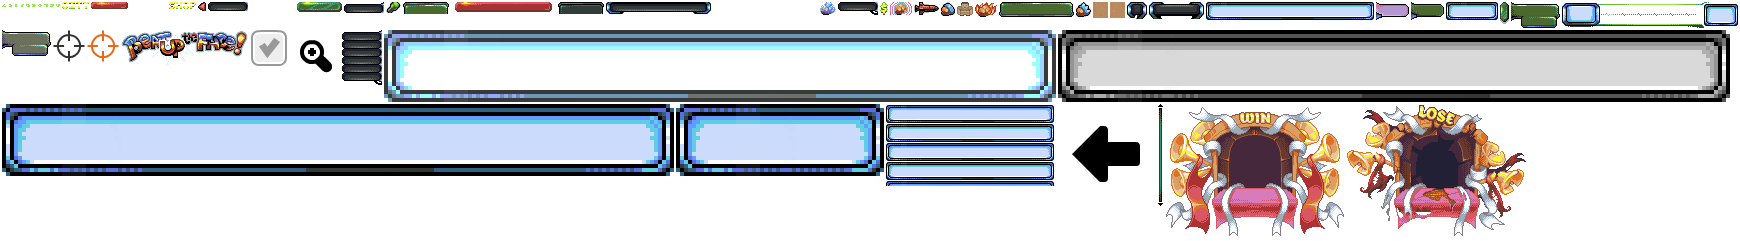
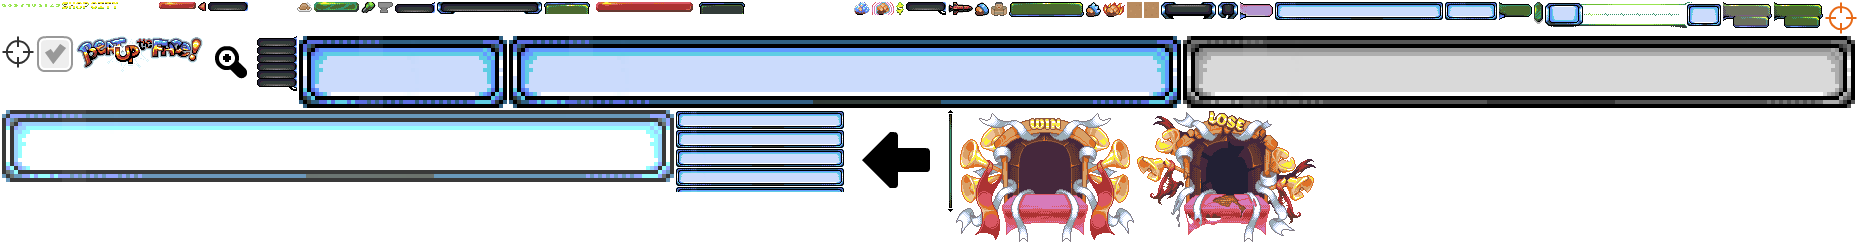
add anvil (and unused cooking.png) for new harvestable for workshop

diff --git a/Classes/Harvestable.cpp b/Classes/Harvestable.cpp
@@ -12,7 +12,7 @@ USING_NS_CC;
 
 void Harvestable::init_sprite()
 {
-    this->sprite = cocos2d::Sprite::createWithSpriteFrameName("weapon_ice.png");
+    this->sprite = cocos2d::Sprite::createWithSpriteFrameName(this->get_sprite_path());
     this->sprite->setScale(4);
     this->sprite->getTexture()->setAliasTexParameters();
 
@@ -23,7 +23,12 @@ void Harvestable::init_sprite()
     this->sprite->setPosition(get_relative(this->getContentSize()));
 
     this->clip->addChild(this->sprite);
-}
+};
+
+std::string Harvestable::get_sprite_path()
+{
+    return "weapon_ice.png";
+};
 
 bool Harvestable::init()
 {
@@ -146,7 +151,6 @@ void MiningHarvestable::init_sprite()
 
     };
 
-
     auto sprite_size = Size(15, 16);
     sprite_size.width *= scale * 2;
     sprite_size.height *= scale * 2;
@@ -156,8 +160,6 @@ void MiningHarvestable::init_sprite()
     auto top_right_sprite = create_sprite("dirt_2.png", Vec2::ANCHOR_TOP_RIGHT);
     auto bot_left_sprite = create_sprite("dirt_2.png", Vec2::ANCHOR_BOTTOM_LEFT);
     auto bot_right_sprite = create_sprite("dirt_1.png", Vec2::ANCHOR_BOTTOM_RIGHT);
-
-
 
     auto rt = RenderTexture::create(this->getContentSize().width, this->getContentSize().height);
     rt->retain();
@@ -217,3 +219,8 @@ void MiningHarvestable::animate_harvest()
         this->clip->runAction(Sequence::createWithTwoActions(rotate_by, rotate_to));
     };
 }
+
+std::string CraftingHarvestable::get_sprite_path()
+{
+    return "anvil.png";
+};

diff --git a/Classes/Harvestable.h b/Classes/Harvestable.h
@@ -22,6 +22,7 @@ class Harvestable : public cocos2d::ui::Widget
         bool init() override;
         virtual void animate_harvest();
         virtual void init_sprite();
+        virtual std::string get_sprite_path();
 
         void onTouchEnded(cocos2d::Touch* touch, cocos2d::Event* event) override;
 
@@ -42,6 +43,14 @@ class MiningHarvestable : public Harvestable
         CREATE_FUNC(MiningHarvestable);
         void init_sprite() override;
         virtual void animate_harvest() override;
+};
+
+class CraftingHarvestable : public Harvestable
+{
+    public:
+        CREATE_FUNC(CraftingHarvestable);
+        std::string get_sprite_path() override;
+        // virtual void animate_harvest() override;
 };
 
 #endif

diff --git a/Classes/HarvestScene.cpp b/Classes/HarvestScene.cpp
@@ -43,6 +43,8 @@ void HarvestScene::add_harvestable()
     Harvestable* harvestable;
     if (BUILDUP->target_building->name == "The Mine") {
         harvestable = MiningHarvestable::create();
+    } else if (BUILDUP->target_building->name == "The Workshop") {
+        harvestable = CraftingHarvestable::create();
     } else {
         harvestable = Harvestable::create();
     };
